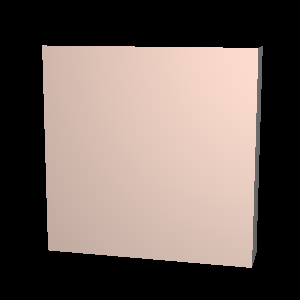
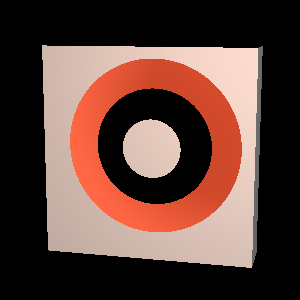
Partially working cones...sort of

Changed region(s): [[0.21, 0.18, 0.81, 0.78]]

diff --git a/ray/surface/Cone.java b/ray/surface/Cone.java
@@ -4,6 +4,7 @@ import ray.IntersectionRecord;
 import ray.Ray;
 import ray.math.Point3;
 //import ray.math.Vector3;
+import ray.math.Vector3;
 
 public class Cone extends Surface {
 	
@@ -28,8 +29,8 @@ public class Cone extends Surface {
 	public Cone() { }
 
 	/**
-	 * Tests this surface for intersection with ray. If an intersection is found
-	 * record is filled out with the information about the intersection and the
+	 * Tests this surface for intersection witheightray. If an intersection is found
+	 * record is filled out witheightthe information about the intersection and the
 	 * method returns true. It returns false otherwise and the information in
 	 * outRecord is not modified.
 	 *
@@ -38,9 +39,84 @@ public class Cone extends Surface {
 	 * @return true if the surface intersects the ray
 	 */
 	public boolean intersect(IntersectionRecord outRecord, Ray rayIn) {
-		// TODO (soon): fill in this function.
+		
+		Point3 e = new Point3(rayIn.origin);
+		Vector3 d = new Vector3(rayIn.direction);
+		Point3 p = new Point3(e.x-center.x, e.y-center.y, e.z-center.z);
+		Point3 c = new Point3(center);
+		double h = height;
+		double r = radius;
+		
+		double s = Math.pow(radius, 2)/Math.pow(height, 2);
+		
+		double A = Math.pow(d.x, 2) + Math.pow(d.y, 2) - (s*Math.pow(d.z, 2));
+		double B = 2 * (p.x*d.x + p.y*d.y - s*(p.z-h)*d.z);
+		double C = Math.pow(p.x, 2) + Math.pow(p.y, 2) - (s*Math.pow(p.z-h,2));
+		
 
-		return false;
+		double discriminant = (Math.pow(B, 2) - (4 * A * C));
+		if (discriminant < 0.0) {
+			return false;
+		} else {
+			double t0 = ((-B) + Math.sqrt(discriminant)) / (2 * A);
+			double t1 = ((-B) - Math.sqrt(discriminant)) / 	(2 * A);
+			double t = 0.0;
+
+			double tc0 = ((c.z+(h/2))-p.z)/d.z;
+			double tc1 = ((c.z+(h/2))-p.z)/d.z;
+
+			Point3 q0 = new Point3();
+			Point3 q1 = new Point3();
+			Point3 qc0 = new Point3();
+			Point3 qc1 = new Point3();
+			
+			rayIn.evaluate(q0, t0);
+			rayIn.evaluate(q1, t1);
+			rayIn.evaluate(qc0, tc0);
+			rayIn.evaluate(qc1, tc1);
+			
+			boolean cond0 = (q0.z >= c.z - h/2 && q0.z <= c.z + h/2);
+			boolean cond1 = (q1.z >= c.z - h/2 && q1.z <= c.z + h/2);
+			boolean a0 = Math.pow(qc0.x+c.x, 2)+Math.pow(qc0.y+c.y, 2)<=Math.pow(radius, 2);
+			boolean a1 = Math.pow(qc1.x-c.x, 2)+Math.pow(qc1.y-c.y, 2)<=Math.pow(radius, 2);
+
+			if (cond0 && cond1) {
+				if (t0 < t1) {
+					t = t0;
+				} else {
+					t = t1;
+				}
+			} else if (a0&&tc0<t0&&tc0<t1) {
+				t=tc0;
+			} else if (a1&&tc1<t0&&tc1<t1) {
+				t=tc1;
+			} else if (cond0 && !cond1) {
+				t = t0;
+			} else if (!cond0 && cond1) {
+				t=t1;
+			} else {
+				return false;
+			}
+			Point3 q = new Point3();
+			rayIn.evaluate(q, t);
+			q.x -= c.x;
+			q.y -= c.y;
+			q.z = (r/h);
+			outRecord.location.set(q);
+			outRecord.surface = this;
+			outRecord.t = t;
+			if(a0) {
+				outRecord.normal.set(new Vector3(0,0,-1));
+			} else if(a1) {
+				outRecord.normal.set(new Vector3(0,0,1));				
+			} else {
+				outRecord.normal.set(q);
+				outRecord.normal.scale(1);
+			}
+			outRecord.normal.normalize();
+
+			return true;
+		}
 	}
 	
 	/**

diff --git a/ray/surface/Cylinder.java b/ray/surface/Cylinder.java
@@ -32,8 +32,7 @@ public class Cylinder extends Surface {
 		this.height = height;
 	}
 
-	public Cylinder() {
-	}
+	public Cylinder() {}
 
 	/**
 	 * Tests this surface for intersection with ray. If an intersection is found
@@ -68,7 +67,6 @@ public class Cylinder extends Surface {
 
 			double t0 = ((-B) + Math.sqrt(discriminant)) / (2 * A);
 			double t1 = ((-B) - Math.sqrt(discriminant)) / (2 * A);
-
 			double t = 0.0;
 
 			double tc0 = ((c.z+(H/2))-p.z)/d.z;
